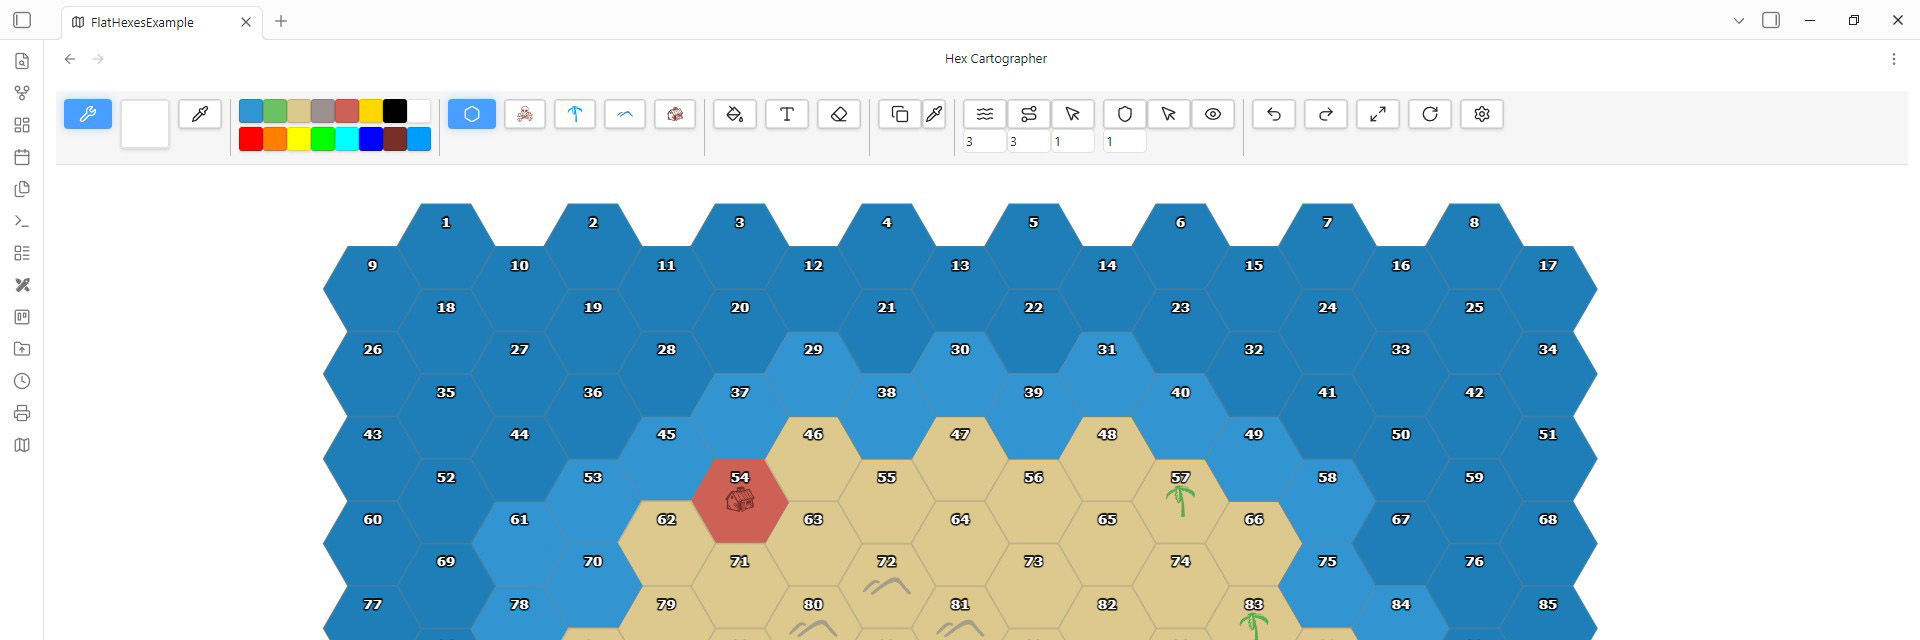
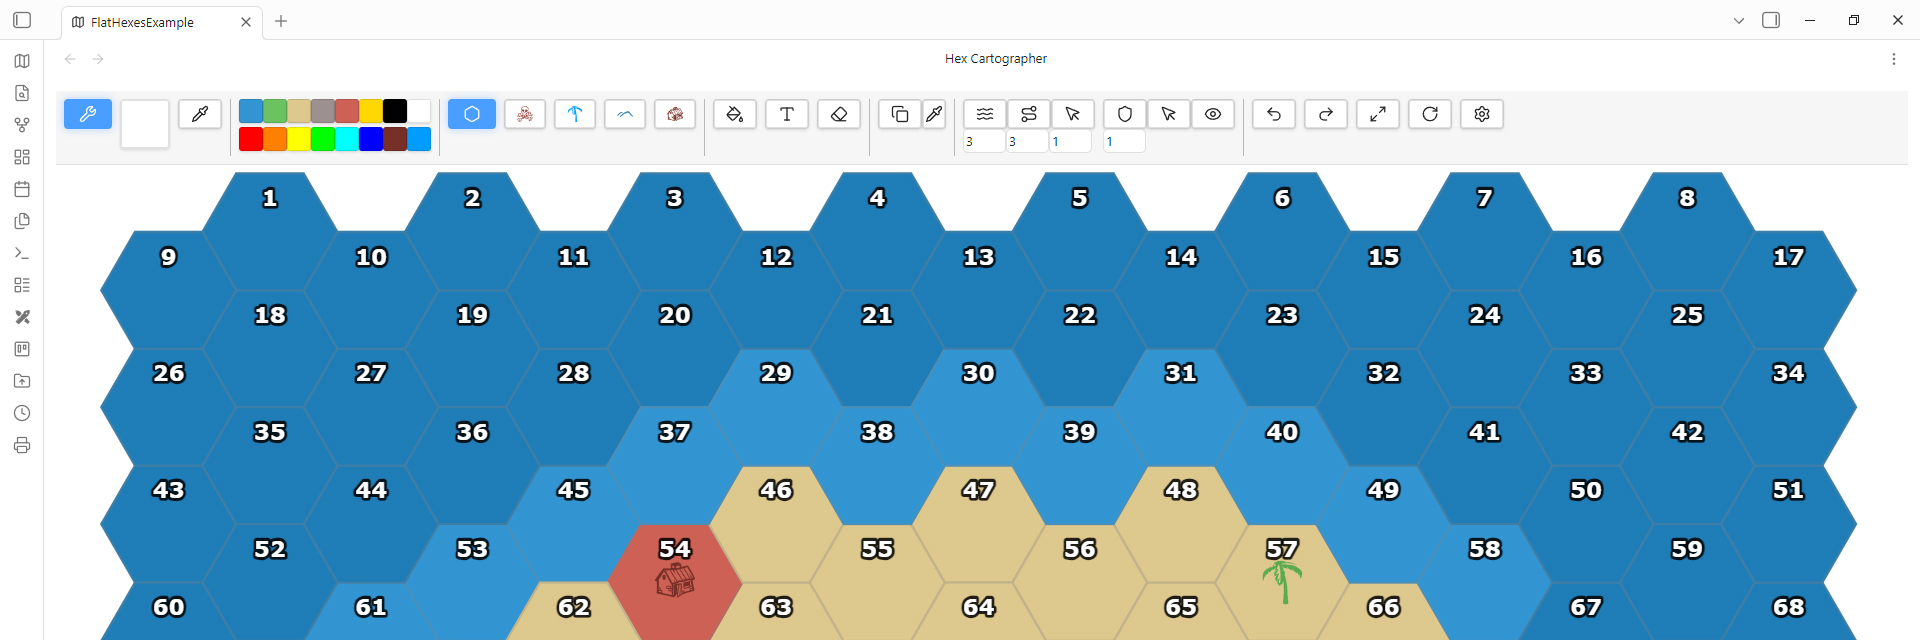
readme update

diff --git a/README.md b/README.md
@@ -29,7 +29,7 @@ Activate numbering to see hex locations
 Switch between numbering modes
 
 ![Editor](readmedata/hc_coordinates3.jpg)
-Choose a coordinate position for the hexes
+Choose a coordinate position for the hexes and color
 
 ## Features
 